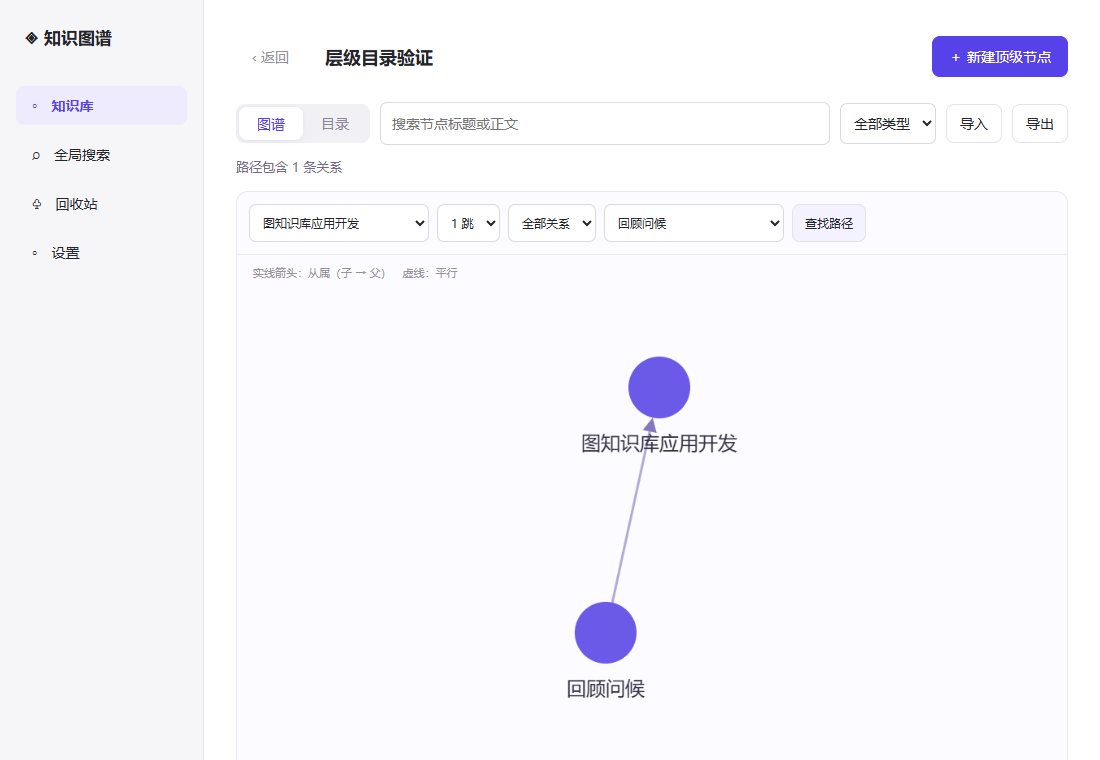
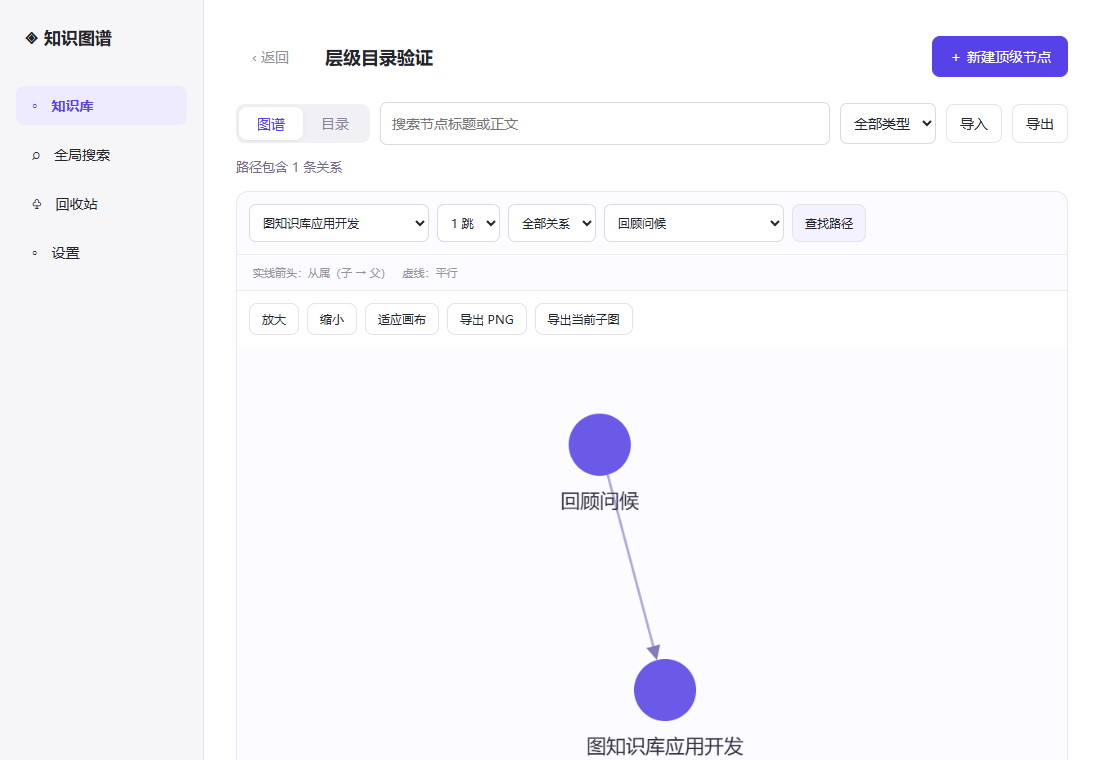
docs: verify node interactions and Windows 0.1.1 update

diff --git a/README.md b/README.md
@@ -1,6 +1,6 @@
 # graph-kb
 
-基于知识图谱的本地知识管理应用，当前为 **0.1.0 本地 MVP**。依据见 [产品大纲](docs/outline.md) 与 `mockups/`，结果与阻塞见 [PROGRESS.md](PROGRESS.md)，未确认项见 [OPEN_QUESTIONS.md](OPEN_QUESTIONS.md)。
+基于知识图谱的本地知识管理应用，当前为 **0.1.1 本地 MVP**。依据见 [产品大纲](docs/outline.md) 与 `mockups/`，结果与阻塞见 [PROGRESS.md](PROGRESS.md)，未确认项见 [OPEN_QUESTIONS.md](OPEN_QUESTIONS.md)。
 
 ## 开发运行
 
@@ -12,7 +12,7 @@ npm ci
 npm run dev
 ```
 
-打开 <http://127.0.0.1:1420>。新建知识库 → 进入目录 → 创建顶级节点 / 节点旁 ＋ 创建子节点 → 点击文档打开独立窗口 → Milkdown 编辑 → 保存或 Ctrl+S → 重新打开。数据实际落在 Kùzu 与 Markdown 文件中。
+打开 <http://127.0.0.1:1420>。新建知识库 → 进入目录 → 创建顶级节点 / 右键创建子节点 → 左键在右侧编辑（右键可选独立窗口） → Milkdown 编辑 → 保存或 Ctrl+S → 重新打开。数据实际落在 Kùzu 与 Markdown 文件中。
 
 本次环境缺少 PATH 中的 npm，已在忽略目录 `.tools/package` 放置本地 npm。**这台机器可直接运行 `node scripts/dev.mjs`**；npm 命令可用 `node .tools/package/bin/npm-cli.js run build` 等替代。此工具目录不纳入仓库，新环境安装标准 Node/npm 即可。
 
@@ -93,7 +93,9 @@ Milkdown → REST → KnowledgeTools → Kùzu（结构与属性）
 
 **连接外部 AI：** 设置 → 显示本地连接配置 → 将显示的 mcpServers 配置交给支持 MCP 的客户端。应用保持打开；每次应用重启端口/Key 会变，要重新复制。MCP 使用 stdio JSON-RPC（2025-11-25），调用同一 REST 工具边界；不是远程 HTTP MCP 服务。连接配置包含本地会话凭据，请勿提交 Git。工具覆盖 CRUD、邻域、路径、全文、导入导出、回收站、概念合并、附件和设置。
 
-**常用操作：** 知识库顶部切换“图谱 / 目录”；每个目录节点右侧 ＋ 创建子节点、⋯ 管理关系；图谱控制区选择中心/跳数/路径终点，画布下方导出 PNG 或当前子图；全库导出用顶部“导出”。Markdown ZIP 含结构清单 graph.json，可用 JSON 导入完整还原并重映射 ID；CSV 必须有 title，可选 id、parentId、markdown、kind。所有导入事务整批校验，失败不留半份图。
+**常用操作：** 知识库顶部切换“图谱 / 目录”；目录节点左键在右侧编辑，左右分栏可拖动；图谱和目录均右键打开节点操作菜单（创建子节点、重命名、关系管理、两种删除、新窗口打开），图谱左键仍开独立窗口；图谱控制区选择中心/跳数/路径终点，画布下方导出 PNG 或当前子图；全库导出用顶部“导出”。Markdown ZIP 含结构清单 graph.json，可用 JSON 导入完整还原并重映射 ID；CSV 必须有 title，可选 id、parentId、markdown、kind。所有导入事务整批校验，失败不留半份图。
+
+删除节点可指定 DELETE /api/nodes/{id}?mode=single 或 mode=cascade；默认 single 仅删当前节点，cascade 删除独占后代，保留有外部父节点的共享分支。MCP delete_node 也接受 mode。两种删除均进入回收站，可整批恢复。
 
 回收站保留 30 天，运行时每小时清理，启动和请求维护也检查。恢复尽量恢复原边，因其他节点删除或结构变化产生的冲突边会跳过并提示。图谱/目录隐藏 Concept；后台纠正及合并可经 MCP 完成。候选池功能不在本版，逐项映射见 [MVP 验收表](docs/MVP_ACCEPTANCE.md)。
 

diff --git a/docs/outline.md b/docs/outline.md
@@ -107,17 +107,17 @@
 
   ![删除确认弹窗](../mockups/kb-del.png)
 
-**补充确认（2026-10-13）**：目录参考用户给出的可折叠文件树；每个节点提供在其下创建子节点的入口，顶部按钮明确为“新建顶级节点”。
+**补充确认（2026-10-13）**：目录参考可折叠文件树；图谱和目录右键节点弹出同一操作菜单（新建子节点、重命名、关系管理、两种删除、新窗口打开）。目录移除行内加号和省略号，左右分栏可拖动；顶部按钮为“新建顶级节点”。
 
 **知识库详情页（2026-10-13，多次修订）**：顶部栏含返回、库名、视图切换器（图谱 | 目录）、节点搜索、「新建节点」按钮。两种视图一键切换：
 - 图谱视图：圆形节点 + 边，全宽画布；实线箭头 = 从属关系（子→父），虚线 = 平行关系；附图例
 
   ![图谱视图](../mockups/kb-graph-v3.png)
-- 目录视图：左侧树形目录（可展开/折叠，缩进表示从属），右侧空状态；点击节点弹新窗口打开文档（老版布局）
+- 目录视图：左侧树形目录（可展开/折叠，缩进表示从属），右侧 Markdown 编辑器；左键选择后直接编辑和保存，两栏之间可拖动。未选中节点时右侧空状态。
 
   ![目录视图](../mockups/kb-tree-v2.png)
 
-**设计决策（2026-10-13）**：点击节点以**新窗口**打开其 Markdown 文档，而非在原页面内跳转。原图谱 / 目录视图保持可见、可交互，无需返回。文档窗口含标题栏（文档名 + 关闭按钮），正文由集成的开源 Markdown 编辑器渲染，支持内部链接跳转。
+**设计决策（2026-10-13，本次修订）**：图谱左键点击节点以**新窗口**打开 Markdown；目录左键在右侧编辑和保存，右键菜单也可选择在新窗口打开。原图谱 / 目录视图保持可见、可交互，无需返回。文档窗口含标题栏（文档名 + 关闭按钮），正文由集成的开源 Markdown 编辑器渲染，支持内部链接跳转。
 
 ![文档窗口](../mockups/kb-doc-v3.png)
 
@@ -164,7 +164,7 @@
 ### 5.8 删除语义
 
 **设计决策（2026-10-13）**：删除采用软删除 + 回收站，30 天后自动彻底删除，期间可恢复：
-- 删节点：其关联的边（从属 / 平行）级联清除，不留断头边；节点对应的 Markdown 文档随节点进回收站
+- 删节点：可选“仅删除当前节点”或“级联删除”。前者保留子节点；后者递归删除独占后代，但保留有外部父节点的共享后代及其依附分支（用户确认）。被删节点的关联边级联清除，正文随节点进入同一个回收站批次，可整批恢复。
 - 其他文档中指向该节点的内部链接（`node:<id>`）渲染为灰色"已删除节点"占位，不可点击
 - 删知识库：二次确认后整库（节点、边、文档）进回收站，同样 30 天可恢复
 - 注：删除确认弹窗 mockup（`kb-del.png`）需按新语义重画，文案改为"将进入回收站，30 天后彻底删除"

diff --git a/docs/MVP_ACCEPTANCE.md b/docs/MVP_ACCEPTANCE.md
@@ -1,6 +1,6 @@
 # 本地 MVP 验收映射
 
-2026-10-13，版本 0.1.0。范围为第 5 节已确认最小集，及用户确认的 Cytoscape.js、层级目录、节点下创建。
+2026-10-13，版本 0.1.1。范围为第 5 节已确认最小集，及用户确认的 Cytoscape.js、层级目录、节点下创建。
 
 | 大纲 | 实现入口 / 行为 | 验证与边界 |
 |---|---|---|
@@ -13,9 +13,9 @@
 | 5.4 导入 | Markdown 文件/文件夹、CSV、Graph KB JSON | 文件夹映射父节点，相对 .md 链接转稳定 ID；CSV 引号/换行；非法图整批回滚；2000 节点/批，UI 文件总量 24 MiB |
 | 5.4 导出 | 全库 JSON、Markdown ZIP（graph.json、正文、附件） | JSON 含隐藏概念/关系/附件，导入重映射 ID，不覆盖已有节点；同批 Markdown 引用相对化，范围外引用保留 node: |
 | 5.6 首页 | 卡片计数/更新时间、名称筛选、新建、重命名、确认删除；全局搜索、设置 | 实际读写 Kùzu；空库无更新时间；改名不改 ID |
-| 5.6 目录窗口 | 可折叠缩进树、节点旁 ＋ 创建子节点、顶部新建顶级；点击开独立窗口 | 多父按已有边投影；保存、关闭、冲突保草稿；原图谱/目录保持可用 |
+| 5.6 目录窗口 | 可折叠缩进树、右键节点操作、左右可拖分栏；目录左键右侧编辑，图谱左键开独立窗口 | 多父按已有边投影；保存、关闭、冲突保草稿；原图谱/目录保持可用 |
 | 5.7 REST/MCP | 知识库/节点/关系/正文 CRUD、查询、导入导出、回收站、附件、设置共用工具层 | Bearer 鉴权，127.0.0.1 随机端口；MCP stdio 2025-11-25；设置中显示配置，重启需更新；真实子进程调用通过 |
-| 5.8 删除恢复 | 节点/整库进回收站，边移除，正文移入 trash；恢复原 ID 和可恢复关系 | 30 天后在启动、每小时及请求维护时清理；关闭期间不唤醒应用；恢复冲突边跳过并提示；附件随节点限制访问/过期清理 |
+| 5.8 删除恢复 | 节点支持仅删当前/级联删除独占后代，保护外部父节点共享分支；节点/整库进回收站，恢复原 ID、正文和可恢复关系 | 30 天后在启动、每小时及请求维护时清理；关闭期间不唤醒应用；恢复冲突边跳过并提示；附件随节点限制访问/过期清理 |
 | 5.8 删除引用 | 灰色“已删除节点”占位，阻止点击 | 渲染装饰，保留正文原链接；窗口聚焦/重载刷新；恢复后可用 |
 
 自动化入口：npm test、npm run test:ui、npm run test:runtime、node scripts/test-installed.mjs。结果与包位置见根目录 PROGRESS.md。

diff --git a/OPEN_QUESTIONS.md b/OPEN_QUESTIONS.md
@@ -22,10 +22,10 @@
 
 - Cytoscape.js：用户本次明确确认，已用于图谱视图。
 - Apache-2.0、多供应商云端 API 已确认。
-- 目录按用户示例可折叠、缩进；节点旁 ＋ 在其下创建，顶部为“新建顶级节点”。
+- 目录按用户示例可折叠、缩进；节点右键在其下创建；目录左键右侧编辑，分栏可拖动；图谱左键开独立窗口。顶部为“新建顶级节点”。
 - Concept 同样有 Markdown，但隐藏于普通列表、目录、图谱；外部工具可查询和合并。
 - 反向链接从 Markdown 聚合，不存引用边；共享概念推荐不写弱关联边。
-- 删除按 5.8 的 30 天回收站，旧设计图的永久删除文案不采用。单节点删除只级联其边；失去全部父节点的子节点成为顶级，不擅自递归删子树。
+- 删除按 5.8 的 30 天回收站，旧设计图的永久删除文案不采用。用户新确认两种删除：仅当前节点（子节点保留），以及级联删除（保留有外部父节点的共享后代及依附分支）；两种均可整批恢复。
 - 6.1 的编辑器旧候选冲突，按更新的 5.6 和本次授权使用 Milkdown。
 - ArangoDB 许可不能沿用大纲 Apache-2.0 表述；项目未引入。
 
